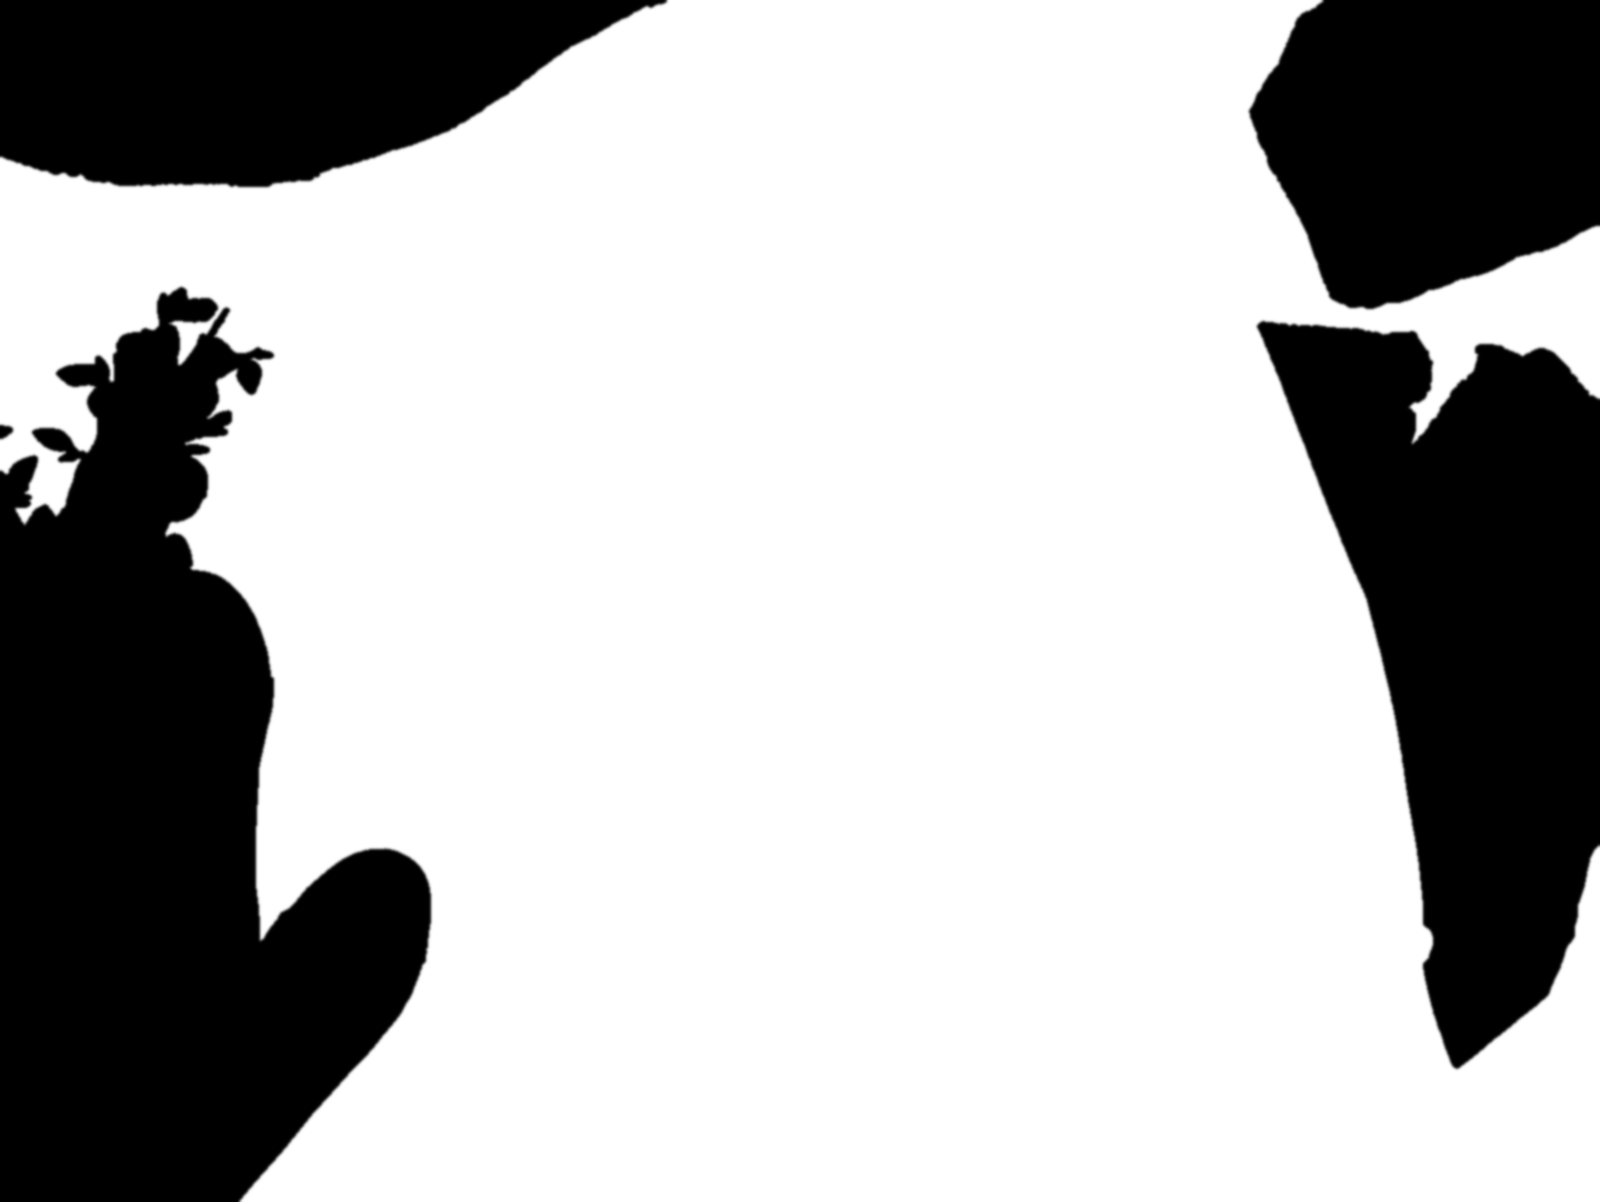
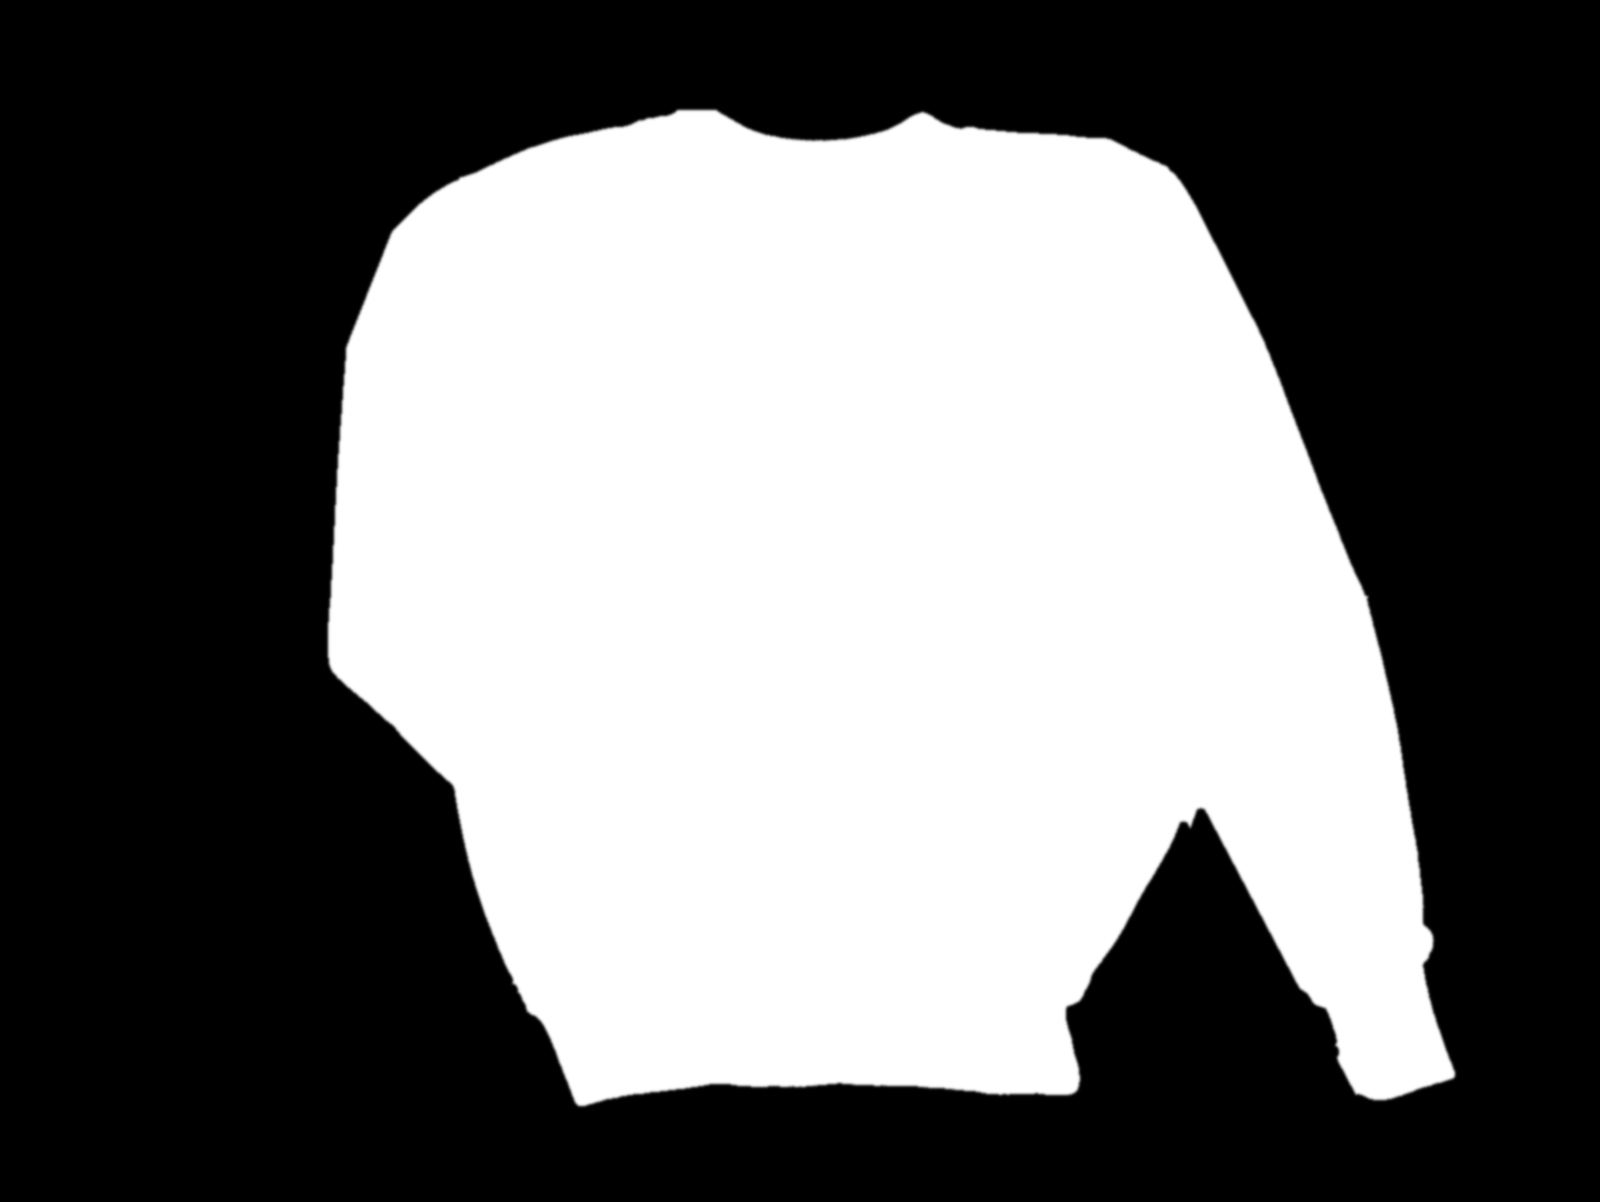
mockups: bounded tint masks, surface fixes, 64 photo mockups

Changed region(s): [[0.0, 0.0, 1.0, 1.0]]

diff --git a/tools/mockups/specs.py b/tools/mockups/specs.py
@@ -9,10 +9,10 @@ def M(id, label, category, photo, slug, by, **k):
 SPECS = [
     M('tee-concrete', 'T-shirt on a hanger', 'Apparel',
       '1581655353564-df123a1eb820', 'white-crew-neck-t-shirt-acn5ERAeSb4', 'Haryo Setyadi',
-      kind='cloth', quad=[[410,830],[680,830],[680,1180],[410,1180]], warp=2.0, gamma=1.3, tint=dict(seed=[[545,1000]], tol=6), colors=C),
+      kind='cloth', quad=[[410,830],[680,830],[680,1180],[410,1180]], warp=2.0, gamma=1.3, tint=dict(poly=[[300,800],[470,690],[640,690],[800,810],[800,1010],[735,1010],[740,1370],[375,1370],[385,1020],[310,1020]], min=135), colors=C),
     M('tee-flatlay', 'T-shirt flat lay', 'Apparel',
       '1620799139507-2a76f79a2f4d', 'white-crew-neck-t-shirt-elbKS4DY21g', 'Mediamodifier',
-      kind='cloth', quad=[[600,330],[950,320],[960,780],[610,790]], warp=2.4, gamma=1.6, tint=dict(seed=[[800,650]], tol=5), colors=C),
+      kind='cloth', quad=[[600,330],[950,320],[960,780],[610,790]], warp=2.4, gamma=1.6),
     M('tee-man', 'T-shirt, worn', 'Apparel',
       '1586790170083-2f9ceadc732d', 'man-in-white-crew-neck-t-shirt-m1MRYp556Ew', 'Sahil Moosa',
       kind='cloth', quad=[[385,820],[715,820],[715,1180],[385,1180]], warp=2.8, gamma=1.5),
@@ -21,19 +21,19 @@ SPECS = [
       kind='cloth', quad=[[610,430],[990,430],[1000,800],[620,800]], warp=2.8, gamma=1.5),
     M('sweatshirt-flatlay', 'Sweatshirt flat lay', 'Apparel',
       '1620799140408-edc6dcb6d633', 'white-crew-neck-long-sleeve-shirt-7cERndkOyDw', 'Mediamodifier',
-      kind='cloth', quad=[[610,320],[1010,320],[1010,760],[610,760]], warp=2.4, gamma=1.6, tint=dict(seed=[[810,600]], tol=4), colors=C),
+      kind='cloth', quad=[[610,320],[1010,320],[1010,760],[610,760]], warp=2.4, gamma=1.6, tint=dict(poly=[[440,110],[1200,110],[1350,330],[1520,1050],[1380,1140],[1200,800],[1130,1000],[1080,1130],[560,1130],[500,1010],[380,1030],[270,540]], min=203), colors=C),
     M('hoodie-street', 'Hoodie, worn', 'Apparel',
       '1656664344251-5abe0e1b5f3f', 'a-man-wearing-a-white-coat-F6jyqM5uJSU', 'Chuko Cribb',
       kind='cloth', quad=[[440,860],[850,860],[850,1290],[440,1290]], warp=2.8, gamma=1.3),
     M('tote-grey', 'Tote bag', 'Apparel',
       '1574365569389-a10d488ca3fb', 'white-reusable-bag-on-gray-surface-smTDI-z1rlY', 'Brando Makes Branding',
-      kind='cloth', quad=[[570,400],[1060,400],[1060,860],[570,860]], warp=1.6, gamma=1.3, tint=dict(seed=[[800,600]], tol=4), colors=C),
+      kind='cloth', quad=[[570,400],[1060,400],[1060,860],[570,860]], warp=1.6, gamma=1.3),
     M('tote-held', 'Tote bag, held', 'Apparel',
       '1630381260512-e3fe55c11973', 'person-in-blue-denim-jeans-holding-white-tote-bag-PENodSVsL1s', 'Mediamodifier',
-      kind='cloth', quad=[[650,440],[960,440],[965,780],[640,780]], warp=2.0, gamma=1.4, tint=dict(seed=[[800,620]], tol=4), colors=C),
+      kind='cloth', quad=[[650,440],[960,440],[965,780],[640,780]], warp=2.0, gamma=1.4),
     M('tote-pine', 'Tote bag on pine needles', 'Apparel',
       '1621466550398-ac8062907657', 'white-paper-bag-on-brown-grass-B7BS0hw3Yg0', 'luciano paris',
-      kind='cloth', quad=[[360,450],[930,450],[930,1150],[345,1150]], warp=2.4, gamma=1.4, tint=dict(seed=[[640,800]], tol=5), colors=C),
+      kind='cloth', quad=[[360,450],[930,450],[930,1150],[345,1150]], warp=2.4, gamma=1.4, tint=dict(poly=[[310,400],[480,400],[480,70],[820,70],[820,400],[1000,400],[1000,1210],[310,1210]], min=115), colors=C),
     M('bus-stop-amsterdam', 'City poster, Amsterdam', 'Outdoor',
       '1610376096719-9819725cfb00', 'black-and-white-street-sign-5fvMWp1r2n0', 'bram naus',
       kind='flat', seed=[[790,420]], tol=4, flat_shade=122),
@@ -159,16 +159,16 @@ SPECS = [
       kind='flat', seed=[[1060,400]], tol=2, shrink=12, flat_shade=124),
     M('pillow-sofa', 'Cushion on a sofa', 'Home',
       '1629949009765-40fc74c9ec21', 'white-throw-pillow-on-gray-sofa-zTY9OwAfOrg', 'Mediamodifier',
-      kind='cloth', quad=[[450,430],[1130,410],[1150,1100],[400,1100]], warp=2.4, gamma=2, tint=dict(seed=[[800,700]], tol=3), colors=C),
+      kind='cloth', quad=[[450,430],[1130,410],[1150,1100],[400,1100]], warp=2.4, gamma=2),
     M('pillow-flatlay', 'Cushion flat lay', 'Home',
       '1629949009710-2df14c41a72e', 'white-throw-pillow-on-white-textile-rf3u4jac6go', 'Mediamodifier',
-      kind='cloth', quad=[[420,430],[1160,410],[1190,1170],[410,1190]], warp=2.4, gamma=2, tint=dict(seed=[[800,700]], tol=3), colors=C),
+      kind='cloth', quad=[[420,430],[1160,410],[1190,1170],[410,1190]], warp=2.4, gamma=2),
     M('pillow-yellow', 'Cushion on yellow', 'Home',
       '1629949008265-af1bcaf59786', 'white-throw-pillow-on-white-couch-UR_eZMMmVn4', 'Mediamodifier',
-      kind='cloth', quad=[[320,380],[1190,330],[1220,1170],[300,1190]], warp=2.4, gamma=2, tint=dict(seed=[[760,700]], tol=3), colors=C),
+      kind='cloth', quad=[[320,380],[1190,330],[1220,1170],[300,1190]], warp=2.4, gamma=2),
     M('pillow-pink', 'Cushion with flowers', 'Home',
       '1629949008790-ca50382f7f98', 'white-throw-pillow-on-bed-3pvour1eAbU', 'Mediamodifier',
-      kind='cloth', quad=[[470,480],[1190,470],[1200,1190],[430,1190]], warp=2.4, gamma=2, tint=dict(seed=[[800,800]], tol=3), colors=C),
+      kind='cloth', quad=[[470,480],[1190,470],[1200,1190],[430,1190]], warp=2.4, gamma=2),
     M('frame-copper', 'Copper frame, portrait', 'Home',
       '1611651525144-42027e7f45ba', 'picture-frame-with-hourglass-and-horse-hyGXlmNeK-I', 'Dmitry Mashkin',
       kind='flat', seed=[[800,600]], tol=2, lo=0),

diff --git a/tools/mockups/photo.py b/tools/mockups/photo.py
@@ -192,18 +192,6 @@ def make_shade(lum, cov, ref=None, gamma=1.0, pct=92, lo=205, smooth=4):
     return np.clip(s, 8, 230)
 
 
-def grabcut_body(rgb, poly, exclude=None, iters=5):
-    h, w = rgb.shape[:2]
-    m = np.full((h, w), cv2.GC_BGD, np.uint8)
-    pm = poly_mask([poly], w, h) > 0.5
-    m[pm] = cv2.GC_PR_FGD
-    if exclude:
-        m[poly_mask(exclude, w, h) > 0.5] = cv2.GC_BGD
-    bg, fg = np.zeros((1, 65)), np.zeros((1, 65))
-    cv2.grabCut(cv2.cvtColor(rgb, cv2.COLOR_RGB2BGR), m, None, bg, fg, iters, cv2.GC_INIT_WITH_MASK)
-    return ((m == cv2.GC_FGD) | (m == cv2.GC_PR_FGD)).astype(np.uint8) * 255
-
-
 def build(spec, path):
     """-> (base uint8, u, v, cov, shade, tint|None, aspect)"""
     rgb = prepare(path, spec.get('crop'))
@@ -264,10 +252,9 @@ def build(spec, path):
     tint = None
     t = spec.get('tint')
     if t:
-        if t.get('seed'):
-            body = clean(flood(rgb, t['seed'], t.get('tol', 3)), t.get('close', 7), True)
-        else:
-            body = clean(grabcut_body(rgb, t['poly'], t.get('exclude')), t.get('close', 7), True)
+        # rough product outline + brightness: a light product on a darker ground, and it cannot leak out
+        inside = poly_mask([t['poly']], w, h) > 0.5
+        body = clean(((lum >= t['min']) & inside).astype(np.uint8) * 255, t.get('close', 9), True)
         tint = cv2.GaussianBlur((body > 0).astype(np.float32), (0, 0), t.get('feather', 1.3))
         if t.get('exclude'):
             tint = tint * (1 - cv2.GaussianBlur(poly_mask(t['exclude'], w, h), (0, 0), 1.2))
